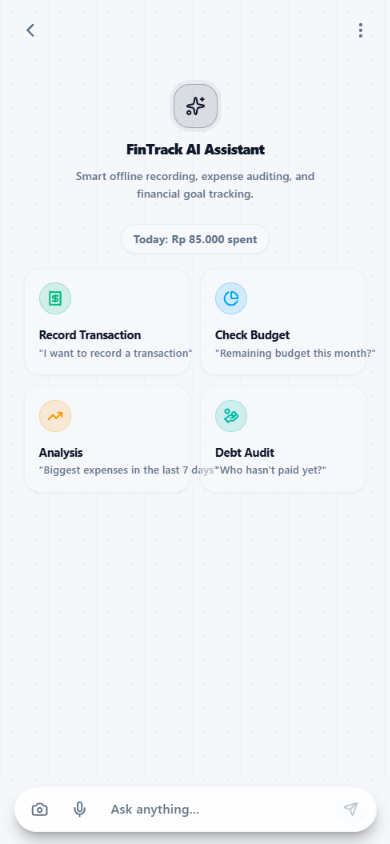
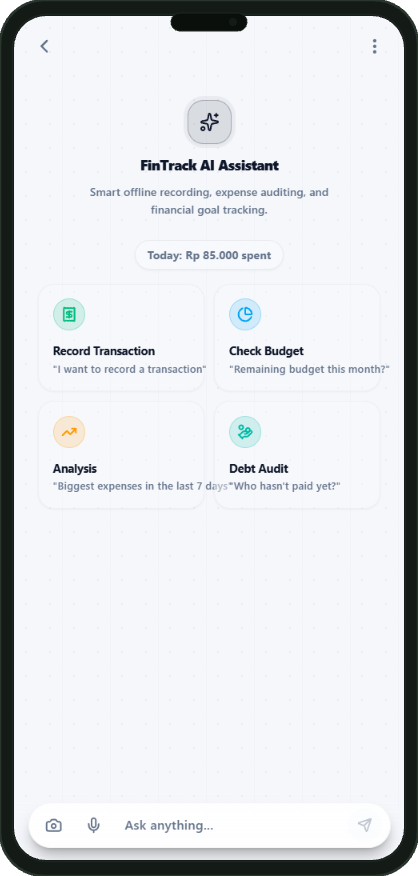
fix: resolve net worth pill wrapping bug and elevate README preview to borderless framed mockups

diff --git a/src/components/dashboard/DashboardNetWorthChart.jsx b/src/components/dashboard/DashboardNetWorthChart.jsx
@@ -59,6 +59,7 @@ export const DashboardNetWorthChart = memo(function DashboardNetWorthChart({
         trendBadge={
           hasGrowth ? (
             <span
+              title={`${isNetPositive ? '+' : ''}${formatCurrency(netWorthGrowth.net, defaultCurrency)}`}
               className={`inline-flex whitespace-nowrap shrink-0 items-center self-center gap-1 rounded-full px-2 py-0.5 text-[11px] font-bold border transition-colors leading-none ${
                 isNetPositive
                   ? 'bg-[var(--status-income-soft)] text-[var(--status-income)] border-[var(--status-income)]/20'
@@ -73,8 +74,7 @@ export const DashboardNetWorthChart = memo(function DashboardNetWorthChart({
                 <TrendingDown className="h-3 w-3 shrink-0 text-[var(--status-expense)]" strokeWidth={2.5} />
               ) : null}
               <span className="leading-tight">
-                {isNetPositive ? '+' : ''}
-                {formatCurrency(netWorthGrowth.net, defaultCurrency)} ({formatGrowthPercentage(netWorthGrowth.pct, true)})
+                {formatGrowthPercentage(netWorthGrowth.pct, true)}
               </span>
             </span>
           ) : null

diff --git a/src/components/dashboard/DashboardStatComponents.jsx b/src/components/dashboard/DashboardStatComponents.jsx
@@ -126,8 +126,8 @@ export const MiniChartCard = memo(function MiniChartCard({
         <div className="min-w-0 flex-1">
           <p className="text-[11px] font-semibold tracking-wide text-[var(--muted)]">{title}</p>
           {!isEmptyData && (
-            <div className="mt-0.5 flex items-center gap-2 flex-wrap">
-              <p className="text-[clamp(15px,3.8vw,18px)] font-black leading-tight tracking-tight tabular-nums text-[var(--fg)]">
+            <div className="mt-0.5 flex items-center gap-2 flex-nowrap min-w-0">
+              <p className="text-[clamp(15px,3.8vw,18px)] font-black leading-tight tracking-tight tabular-nums text-[var(--fg)] truncate">
                 {scrubbedPoint ? scrubbedPoint.value : value}
               </p>
               {scrubbedPoint?.time ? (

diff --git a/README.md b/README.md
@@ -1,5 +1,7 @@
 <div align="center">
 
+<br />
+
 <a href="https://github.com/Flynarch/finansial-tracker">
   <img src="docs/assets/logo.png" alt="FinTrack Logo" width="112" height="112" />
 </a>
@@ -12,6 +14,7 @@
 [![Android APK](https://img.shields.io/badge/Android_APK-Capacitor_8-3DDC84.svg?style=flat-square&logo=android&logoColor=white)](https://github.com/Flynarch/finansial-tracker/releases/latest)
 [![Tests](https://img.shields.io/badge/Tests-1%2C748%20Passed%20(120%20Suites)-brightgreen.svg?style=flat-square)](https://github.com/Flynarch/finansial-tracker)
 [![Security](https://img.shields.io/badge/Security-AES--256--GCM%20%7C%20E2EE-blueviolet.svg?style=flat-square)](SECURITY.md)
+
 [![React](https://img.shields.io/badge/React-19.2.5-61DAFB.svg?style=flat-square&logo=react&logoColor=black)](https://react.dev/)
 [![Vite](https://img.shields.io/badge/Vite-8.0-646CFF.svg?style=flat-square&logo=vite&logoColor=white)](https://vitejs.dev/)
 [![Tailwind CSS](https://img.shields.io/badge/Tailwind-v4.2-38B2AC.svg?style=flat-square&logo=tailwindcss&logoColor=white)](https://tailwindcss.com/)
@@ -53,56 +56,39 @@ FinTrack gives you complete ownership over your personal finances. Built from th
 
 ## App Preview
 
-<div align="center">
-  <table>
-    <tr>
-      <td align="center" width="33%">
-        <img src="docs/screenshots/dashboard.png" alt="FinTrack Dashboard" width="240" />
-        <br />
-        <strong>Interactive Dashboard</strong>
-        <br />
-        <sub>Net worth curve, active account carousel, and daily consistency tracking</sub>
-      </td>
-      <td align="center" width="33%">
-        <img src="docs/screenshots/transactions.png" alt="Transaction Ledger" width="240" />
-        <br />
-        <strong>Daily Transaction Ledger</strong>
-        <br />
-        <sub>Two-tier categories, wallet badges, structured notes, and date grouping</sub>
-      </td>
-      <td align="center" width="33%">
-        <img src="docs/screenshots/reports.png" alt="Financial Reports" width="240" />
-        <br />
-        <strong>Financial Reports</strong>
-        <br />
-        <sub>Net surplus metrics, cash flow breakdowns, AI advisor insights, and PDF exports</sub>
-      </td>
-    </tr>
-    <tr>
-      <td align="center" width="33%">
-        <img src="docs/screenshots/budget.png" alt="Budget Management" width="240" />
-        <br />
-        <strong>Payday-Aligned Budgets</strong>
-        <br />
-        <sub>Category spending limits, real-time pace meters, and overspend warnings</sub>
-      </td>
-      <td align="center" width="33%">
-        <img src="docs/screenshots/savings.png" alt="Savings Goals Vaults" width="240" />
-        <br />
-        <strong>Savings Vaults & Runway</strong>
-        <br />
-        <sub>Target progression, deadline estimation, and automated emergency runway</sub>
-      </td>
-      <td align="center" width="33%">
-        <img src="docs/screenshots/ai_chat.png" alt="AI Finance Assistant" width="240" />
-        <br />
-        <strong>AI Assistant & Receipt OCR</strong>
-        <br />
-        <sub>Conversational audits, paper receipt scanning, and quick action cards</sub>
-      </td>
-    </tr>
-  </table>
-</div>
+<p align="center">
+  <a href="docs/screenshots/dashboard.png"><img src="docs/screenshots/dashboard.png" width="31%" alt="FinTrack Interactive Dashboard" /></a>
+  &nbsp;&nbsp;
+  <a href="docs/screenshots/transactions.png"><img src="docs/screenshots/transactions.png" width="31%" alt="Daily Transaction Ledger" /></a>
+  &nbsp;&nbsp;
+  <a href="docs/screenshots/reports.png"><img src="docs/screenshots/reports.png" width="31%" alt="Financial Reports & Analytics" /></a>
+</p>
+
+<p align="center">
+  <sub><strong>Interactive Dashboard</strong> &bull; Net worth curve, account carousel, and habit consistency</sub>
+  &nbsp;&nbsp;&bull;&nbsp;&nbsp;
+  <sub><strong>Daily Transaction Ledger</strong> &bull; Two-tier categories, wallet badges, and structured notes</sub>
+  &nbsp;&nbsp;&bull;&nbsp;&nbsp;
+  <sub><strong>Financial Reports</strong> &bull; Cash flow, net surplus metrics, and instant PDF/CSV exports</sub>
+</p>
+
+<br />
+
+<p align="center">
+  <a href="docs/screenshots/budget.png"><img src="docs/screenshots/budget.png" width="31%" alt="Payday-Aligned Budgets" /></a>
+  &nbsp;&nbsp;
+  <a href="docs/screenshots/savings.png"><img src="docs/screenshots/savings.png" width="31%" alt="Savings Goals Vaults" /></a>
+  &nbsp;&nbsp;
+  <a href="docs/screenshots/ai_chat.png"><img src="docs/screenshots/ai_chat.png" width="31%" alt="AI Finance Assistant" /></a>
+</p>
+
+<p align="center">
+  <sub><strong>Payday-Aligned Budgets</strong> &bull; Category spending limits, pace meters, and overspend alerts</sub>
+  &nbsp;&nbsp;&bull;&nbsp;&nbsp;
+  <sub><strong>Savings Goals Vaults</strong> &bull; Target progress rings, deadline projection, and emergency runway</sub>
+  &nbsp;&nbsp;&bull;&nbsp;&nbsp;
+  <sub><strong>AI Finance Assistant</strong> &bull; Natural language audits, smart actions, and camera receipt OCR</sub>
+</p>
 
 ---
 
